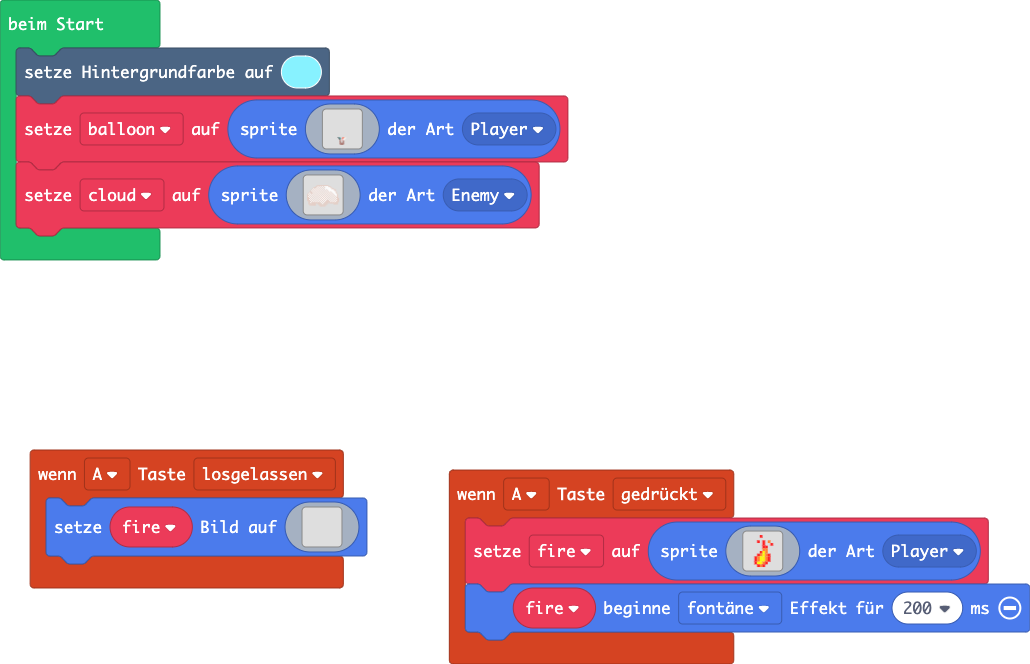
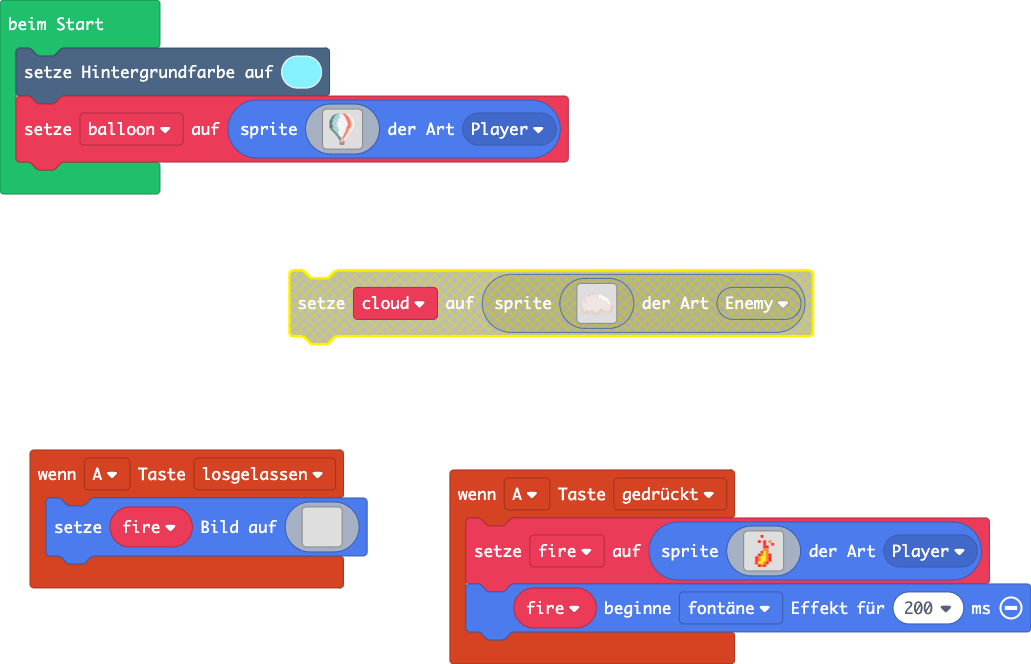
Finalized baloon graphics

diff --git a/main.ts b/main.ts
@@ -39,43 +39,43 @@ let fire: Sprite = null
 scene.setBackgroundColor(9)
 let balloon = sprites.create(img`
 . . . . . . . . . . . . . . . . . . . . . . . . . . . . . . . . . . . . . . 
-. . . . . . . . . . . . . . . . . . . . . . . . . . . . . . . . . . . . . . 
-. . . . . . . . . . . . . . . . . . . . . . . . . . . . . . . . . . . . . . 
-. . . . . . . . . . . . . . . . . . . . . . . . . . . . . . . . . . . . . . 
-. . . . . . . . . . . . . . . . . . . . . . . . . . . . . . . . . . . . . . 
-. . . . . . . . . . . . . . . . . . . . . . . . . . . . . . . . . . . . . . 
-. . . . . . . . . . . . . . . . . . . . . . . . . . . . . . . . . . . . . . 
-. . . . . . . . . . . . . . . . . . . . . . . . . . . . . . . . . . . . . . 
-. . . . . . . . . . . . . . . . . . . . . . . . . . . . . . . . . . . . . . 
-. . . . . . . . . . . . . . . . . . . . . . . . . . . . . . . . . . . . . . 
-. . . . . . . . . . . . . . . . . . . . . . . . . . . . . . . . . . . . . . 
-. . . . . . . . . . . . . . . . . . . . . . . . . . . . . . . . . . . . . . 
-. . . . . . . . . . . . . . . . . . . . . . . . . . . . . . . . . . . . . . 
-. . . . . . . . . . . . . . . . . . . . . . . . . . . . . . . . . . . . . . 
-. . . . . . . . . . . . . . . . . . . . . . . . . . . . . . . . . . . . . . 
-. . . . . . . . . . . . . . . . . . . . . . . . . . . . . . . . . . . . . . 
-. . . . . . . . . . . . . . . . . . . . . . . . . . . . . . . . . . . . . . 
-. . . . . . . . . . . . . . . . . . . . . . . . . . . . . . . . . . . . . . 
-. . . . . . . . . . . . . . . . . . . . . . . . . . . . . . . . . . . . . . 
-. . . . . . . . . . . . . . . . . . . . . . . . . . . . . . . . . . . . . . 
-. . . . . . . . . . . . . . . . . . . . . . . . . . . . . . . . . . . . . . 
-. . . . . . . . . . . . . . . . . . . . . . . . . . . . . . . . . . . . . . 
-. . . . . . . . . . . . . . . . . . . . . . . . . . . . . . . . . . . . . . 
-. . . . . . . . . . . . . . . . . . . . . . . . . . . . . . . . . . . . . . 
-. . . . . . . . . . . . . . . . . . . . . . . . . . . . . . . . . . . . . . 
-. . . . . . . . . . . . . . . . . . . . . . . . . . . . . . . . . . . . . . 
-. . . . . . . . . . . . . . . . . . . . . . . . . . . . . . . . . . . . . . 
-. . . . . . . . . . . . . . . . . . . . . . . . . . . . . . . . . . . . . . 
-. . . . . . . . . . . . . . . . . . . . . . . . . . . . . . . . . . . . . . 
-. . . . . . . . . . . . . . . . . . . . . . . . . . . . . . . . . . . . . . 
-. . . . . . . . . . . . . . . . . . . . . . . . . . . . . . . . . . . . . . 
-. . . . . . . . . . . . . . . . . . . . . . . . . . . . . . . . . . . . . . 
-. . . . . . . . . . . . . . . . . . . . . . . . . . . . . . . . . . . . . . 
-. . . . . . . . . . . . . . . . . . . . . . . . . . . . . . . . . . . . . . 
-. . . . . . . . . . . . . . . . . . . . . . . . . . . . . . . . . . . . . . 
-. . . . . . . . . . . . . . . . . . . . . . . . . . . . . . . . . . . . . . 
-. . . . . . . . . . . . . . . . . . . . . . . . . . . . . . . . . . . . . . 
-. . . . . . . . . . . . . . . . . . . . . . . . . . . . . . . . . . . . . . 
+. . . . . . . . . . 6 6 6 6 6 6 1 1 1 1 2 2 2 2 4 4 1 1 1 . . . . . . . . . 
+. . . . . . . . 6 f 6 1 6 1 6 1 1 1 1 1 1 1 2 2 2 4 4 1 1 1 1 . . . . . . . 
+. . . . . . f 6 f 6 1 6 1 6 1 6 1 1 1 1 1 1 1 2 2 2 4 4 1 1 1 1 . . . . . . 
+. . . . . f 6 f 6 1 6 1 6 1 6 1 1 1 1 1 1 1 1 2 2 2 2 4 4 1 1 1 1 . . . . . 
+. . . . f 6 f 6 1 6 1 6 1 6 1 6 1 1 1 1 1 1 1 1 2 2 2 2 4 4 1 1 1 1 . . . . 
+. . . f 6 f 6 1 6 1 6 1 6 1 6 1 1 1 1 1 1 1 1 1 1 2 2 2 2 4 4 1 1 1 1 . . . 
+. . . 6 f 6 f 6 1 6 1 6 1 6 1 6 1 1 1 1 1 1 1 1 1 2 2 2 2 4 4 1 1 1 1 . . . 
+. . 6 f 6 f 6 1 6 1 6 1 6 1 6 1 1 1 1 1 1 1 1 1 1 1 2 2 2 2 4 4 1 1 1 1 . . 
+. . f 6 f 6 1 6 1 6 1 6 1 6 1 1 1 1 1 1 1 1 1 1 1 1 2 2 2 2 4 4 1 1 1 1 1 . 
+. f 6 f 6 1 6 1 6 1 6 1 6 1 1 1 1 1 1 1 1 1 1 1 1 1 1 2 2 2 2 4 4 1 1 1 1 . 
+. 6 f 6 f 6 1 6 1 6 1 6 1 1 1 1 1 1 1 1 1 1 1 1 1 1 1 2 2 2 2 4 4 1 1 1 1 1 
+f f 6 f 6 1 6 1 6 1 6 1 6 1 1 1 1 1 1 1 1 1 1 1 1 1 1 1 2 2 2 4 4 4 1 1 1 1 
+f 6 f 6 f 6 1 6 1 6 1 6 1 1 1 1 1 1 1 1 1 1 1 1 1 1 1 1 2 2 2 2 4 4 4 1 1 1 
+f f 6 f 6 1 6 1 6 1 6 1 1 1 1 1 1 1 1 1 1 1 1 1 1 1 1 1 2 2 2 2 4 4 4 1 1 1 
+f 6 f 6 1 6 1 6 1 6 1 6 1 1 1 1 1 1 1 1 1 1 1 1 1 1 1 1 1 2 2 2 4 4 4 1 1 1 
+f f 6 f 6 1 6 1 6 1 6 1 1 1 1 1 1 1 1 1 1 1 1 1 1 1 1 1 1 2 2 2 4 4 4 1 1 1 
+f 6 f 6 1 6 1 6 1 6 1 6 1 1 1 1 1 1 1 1 1 1 1 1 1 1 1 1 1 2 2 2 4 4 4 1 1 1 
+f f 6 f 6 1 6 1 6 1 6 1 1 1 1 1 1 1 1 1 1 1 1 1 1 1 1 1 1 2 2 2 4 4 4 1 1 1 
+f 6 f 6 f 6 1 6 1 6 1 6 1 1 1 1 1 1 1 1 1 1 1 1 1 1 1 1 1 2 2 2 4 4 4 1 1 1 
+f f 6 f 6 1 6 1 6 1 6 1 1 1 1 1 1 1 1 1 1 1 1 1 1 1 1 1 1 2 2 2 4 4 4 1 1 1 
+f 6 f 6 f 6 1 6 1 6 1 6 1 1 1 1 1 1 1 1 1 1 1 1 1 1 1 2 2 2 2 4 4 4 1 1 1 1 
+f f 6 f 6 1 6 1 6 1 6 1 6 1 1 1 1 1 1 1 1 1 1 1 1 1 1 2 2 2 2 4 4 4 1 1 1 1 
+. f f 6 f 6 1 6 1 6 1 6 1 6 1 1 1 1 1 1 1 1 1 1 1 1 1 2 2 2 4 4 4 1 1 1 1 . 
+. . 6 f 6 1 6 1 6 1 6 1 6 1 1 1 1 1 1 1 1 1 1 1 1 1 2 2 4 4 4 4 1 1 1 1 . . 
+. . f 6 f 6 1 6 1 6 1 6 1 6 1 1 1 1 1 1 1 1 1 1 1 1 2 2 4 4 4 1 1 1 1 1 . . 
+. . . f 6 f 6 1 6 1 6 1 6 1 1 1 1 1 1 1 1 1 1 1 1 1 2 2 4 4 4 1 1 1 1 . . . 
+. . . . f 6 f 6 1 6 1 6 1 6 1 1 1 1 1 1 1 1 1 1 1 2 2 4 4 4 1 1 1 1 . . . . 
+. . . . . f 6 f 6 1 6 1 6 1 1 1 1 1 1 1 1 1 1 1 1 2 2 4 4 4 1 1 1 1 . . . . 
+. . . . . . f 6 f 6 1 6 1 6 1 1 1 1 1 1 1 1 1 1 1 2 2 4 4 4 1 1 1 . . . . . 
+. . . . . . . f 6 f 6 1 6 1 1 1 1 1 1 1 1 1 1 1 2 2 4 4 4 1 1 1 . . . . . . 
+. . . . . . . . f 6 f 6 1 6 1 1 1 1 1 1 1 1 1 1 2 2 4 4 4 1 1 . . . . . . . 
+. . . . . . . . . f 6 f 6 1 1 1 1 1 1 1 1 1 1 2 2 4 4 4 1 1 1 . . . . . . . 
+. . . . . . . . . . f 6 f 6 1 1 1 1 1 1 1 1 1 2 2 4 4 1 1 1 . . . . . . . . 
+. . . . . . . . . . 6 f 6 f 1 1 1 1 1 1 1 1 2 2 4 4 4 1 1 . . . . . . . . . 
+. . . . . . . . . . . 6 f 6 f 1 1 1 1 1 1 1 2 2 4 4 1 1 1 . . . . . . . . . 
+. . . . . . . . . . . . 6 f 6 f 1 1 1 1 1 2 2 4 4 1 1 1 . . . . . . . . . . 
+. . . . . . . . . . . . . 6 f 6 6 1 6 1 1 2 2 4 1 1 1 . . . . . . . . . . . 
 . . . . . . . . . . . . . f 6 f 6 6 1 1 2 2 4 4 1 1 . . . . . . . . . . . . 
 . . . . . . . . . . . . . . f 6 f 6 6 1 2 2 4 1 1 1 . . . . . . . . . . . . 
 . . . . . . . . . . . . . . . f 6 f 1 1 2 4 1 1 1 . . . . . . . . . . . . . 
@@ -89,28 +89,3 @@ let balloon = sprites.create(img`
 . . . . . . . . . . . . . . . . e e e e e e e . . . . . . . . . . . . . . . 
 . . . . . . . . . . . . . . . . . e e e e e . . . . . . . . . . . . . . . . 
 `, SpriteKind.Player)
-let cloud = sprites.create(img`
-. . . . . . . . . . . . . . . . . . . . . . . . . . . . . . 
-. . . . . . . . . . . . . . . . . . . . . . . . . . . . . . 
-. . . . . . . . . . . . . . . . . . . . . . . . . . . . . . 
-. . . . . . . . . d d d d d d d d d d d . . . . . . . . . . 
-. . . . . . . . d d 1 d 1 d 1 d 1 1 1 1 d d . . . . . . . . 
-. . . . . . d d d 1 d 1 d 1 d 1 d 1 1 1 1 1 d . . . . . . . 
-. . . . . d 1 d 1 d 1 d 1 d 1 d 1 1 1 1 1 1 1 d d . . . . . 
-. . . . d 1 d 1 d 1 d 1 d 1 d 1 d 1 d 1 1 1 1 1 1 d d . . . 
-. . . d 1 d 1 d 1 d 1 d 1 d 1 d 1 d 1 d 1 1 1 1 1 1 d . . . 
-. . d d d 1 d 1 d 1 d 1 d 1 d 1 d 1 d 1 d 1 d 1 1 1 1 d . . 
-. d 1 d d d 1 d 1 d 1 d 1 d 1 d 1 d 1 d 1 d 1 d 1 1 1 d . . 
-d 1 d 1 d 1 d 1 d 1 d 1 d 1 d 1 d 1 d 1 d 1 d 1 d 1 1 1 d . 
-d d 1 d 1 d 1 d 1 d 1 d 1 d 1 d 1 d 1 d 1 d 1 d 1 d 1 1 d . 
-d 1 d 1 d 1 d 1 d 1 d 1 d 1 d 1 d 1 d 1 d 1 d 1 d 1 d 1 d . 
-d d 1 d 1 d 1 d 1 d 1 d 1 d 1 d 1 d 1 d 1 d 1 d 1 d 1 d d . 
-d d d 1 d 1 d 1 d 1 d 1 d 1 d 1 d 1 d 1 d 1 d 1 d 1 d 1 d d 
-d d 1 d 1 d 1 d 1 d 1 d 1 d 1 d 1 d 1 d 1 d 1 d 1 d 1 d d d 
-d d d 1 d 1 d 1 d 1 d 1 d 1 d 1 d 1 d d d 1 d 1 d 1 d 1 d d 
-. d d d 1 d 1 d 1 d 1 d 1 d 1 d 1 d d d d d 1 d 1 d 1 d d d 
-. d d 1 d d d d d d d d d 1 d 1 d d d d . d d d d d d d d . 
-. d d d d d d d . . d d d d 1 d d d d . . . . . . d d d d . 
-. . d d d d d d . . . d d d d d d d . . . . . . . . . . . . 
-. . . . . . . . . . . . d d d d d . . . . . . . . . . . . . 
-`, SpriteKind.Enemy)
